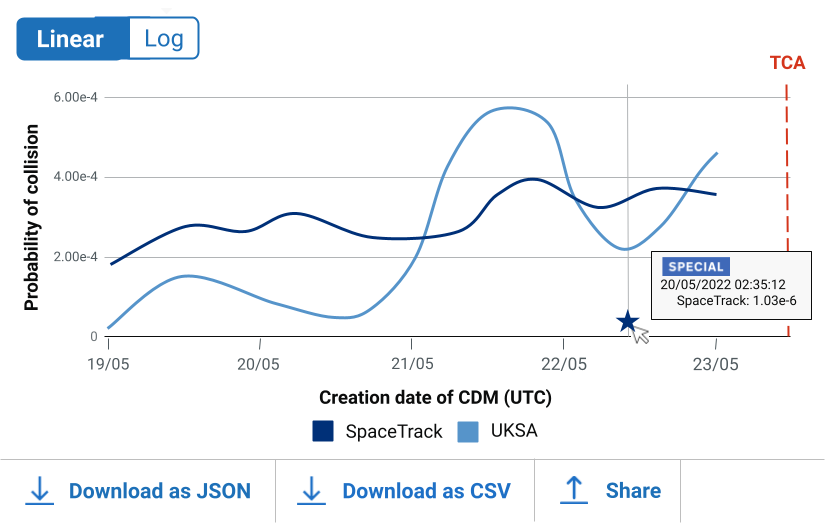
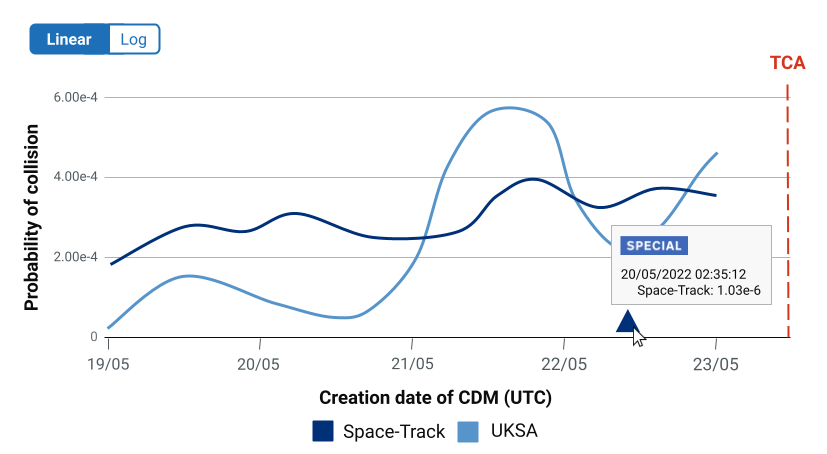
updated charts and filters

diff --git a/app/views/events/operator/event-summary-6.html b/app/views/events/operator/event-summary-6.html
@@ -65,7 +65,7 @@ Event bads-basdw-ascs
     </ul>
     <hr class="govuk-section-break govuk-section-break--l govuk-section-break--visible">
     <h3 class="govuk-heading-m">Filters</h3>
-    <div class="govuk-form-group">
+    <div class="govuk-form-group" hidden>
       <fieldset class="govuk-fieldset">
         <legend class="govuk-fieldset__legend govuk-fieldset__legend--s">
           <b style="margin-bottom: 0px">Filter by Analysis Type</b>
@@ -182,7 +182,7 @@ Event bads-basdw-ascs
                 </div>
                     <div id="accordion-default-content-1" class="govuk-accordion__section-content" aria-labelledby="accordion-default-heading-1">
                       <div style="background-color:#f3f2f1">
-                      <p class="govuk-body-secondary"><p style=color:#505a5f>The changing probability of a conjunction event leading up to the time of closest approach (TCA). Data from the UKSA and SpaceTrack is shown </p>
+                      <p class="govuk-body-secondary"><p style=color:#505a5f>The changing probability of a conjunction event leading up to the time of closest approach (TCA). Data from the UKSA and Space-Track is shown </p>
     
                     <img src="/public/images/special/poc_graph_withspecial.png" alt="PoC Chart" width="100%">
                       </div>
@@ -240,7 +240,6 @@ Event bads-basdw-ascs
                                 </strong>
                               </div>
                               </div>
-                              
                             </div>
     
                     </div>
@@ -289,7 +288,7 @@ Event bads-basdw-ascs
                     </div>
     
                     <!-- Collision plane plot -->
-                    <div class="govuk-accordion__section ">
+                    <div class="govuk-accordion__section" hidden>
                       <div class="govuk-accordion__section-header">
                         <h2 class="govuk-accordion__section-heading" id="accordion-heading-2a">
                           <span class="govuk-accordion__section-button" id="evolution-of-position-uncertainties">

diff --git a/app/views/events/operator/event-summary-5.html b/app/views/events/operator/event-summary-5.html
@@ -131,7 +131,7 @@ Event asdf-asdas-asdf
             </div>
                 <div id="accordion-default-content-1" class="govuk-accordion__section-content" aria-labelledby="accordion-default-heading-1">
                  <div style="background-color:#f3f2f1">
-                 <p class="govuk-body-secondary"><p style=color:#505a5f>The changing probability of a conjunction event leading up to the time of closest approach (TCA). Data from the UKSA and SpaceTrack is shown </p>
+                 <p class="govuk-body-secondary"><p style=color:#505a5f>The changing probability of a conjunction event leading up to the time of closest approach (TCA). Data from the UKSA and Space-Track is shown </p>
 
                 <img src="/public/images/chart-PoC.png" alt="PoC Chart" width="100%">
                  </div>
@@ -236,9 +236,9 @@ Event asdf-asdas-asdf
 
                 </div>
                 </div>
-
                 <!-- Collision plane plot -->
-                <div class="govuk-accordion__section ">
+
+                <div class="govuk-accordion__section" hidden>
                   <div class="govuk-accordion__section-header">
                     <h2 class="govuk-accordion__section-heading" id="accordion-heading-2a">
                       <span class="govuk-accordion__section-button" id="evolution-of-position-uncertainties">
@@ -256,7 +256,6 @@ Event asdf-asdas-asdf
                           </div>
                 </div>
                 </div>
-
         <!-- Object Data -->
         <div class="govuk-accordion__section ">
           <div class="govuk-accordion__section-header">

diff --git a/app/views/events/operator/event-summary-7.html b/app/views/events/operator/event-summary-7.html
@@ -181,7 +181,7 @@ Event plan-plans-plan
                     </div>
                         <div id="accordion-default-content-1" class="govuk-accordion__section-content" aria-labelledby="accordion-default-heading-1">
                           <div style="background-color:#f3f2f1">
-                          <p class="govuk-body-secondary"><p style=color:#505a5f>The changing probability of a conjunction event leading up to the time of closest approach (TCA). Data from the UKSA and SpaceTrack is shown </p>
+                          <p class="govuk-body-secondary"><p style=color:#505a5f>The changing probability of a conjunction event leading up to the time of closest approach (TCA). Data from the UKSA and Space-Track is shown </p>
         
                         <img src="/public/images/special/poc_graph_specialonly.png" alt="PoC Chart" width="100%">
                           </div>
@@ -288,7 +288,7 @@ Event plan-plans-plan
                         </div>
         
                         <!-- Collision plane plot -->
-                        <div class="govuk-accordion__section ">
+                        <div class="govuk-accordion__section" hidden>
                           <div class="govuk-accordion__section-header">
                             <h2 class="govuk-accordion__section-heading" id="accordion-heading-2a">
                               <span class="govuk-accordion__section-button" id="evolution-of-position-uncertainties">
